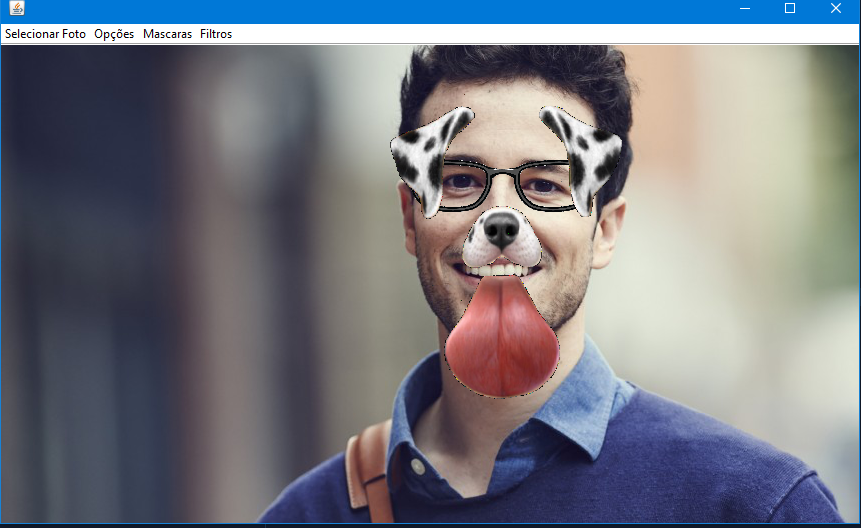
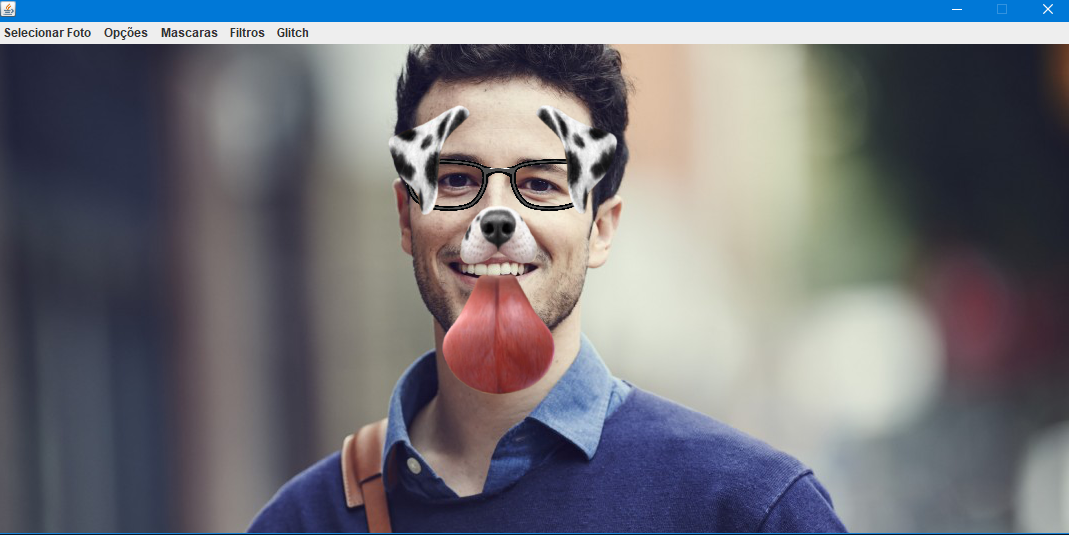
update screenshot's

diff --git a/src/br/com/ySelf/util/MatUtil.java b/src/br/com/ySelf/util/MatUtil.java
@@ -19,7 +19,6 @@ import org.opencv.core.Point;
 import org.opencv.imgcodecs.Imgcodecs;
 import org.opencv.imgproc.Imgproc;
 import org.opencv.core.Rect;
-import org.opencv.core.Scalar;
 import org.opencv.core.Size;
 
 public abstract class MatUtil extends JFrame {
@@ -111,13 +110,15 @@ public abstract class MatUtil extends JFrame {
             double sloopOfFace = Detection.sloopOfFace(img.submat(fr));
             rotate(sub, sloopOfFace);
             
+           
             fr.x += sloopOfFace;
+            
             
             Mat face = img.submat(fr);
             Imgproc.resize(sub, sub, face.size());
             
             overlay(face, sub);
-         
+
         }
     }
     
@@ -141,9 +142,9 @@ public abstract class MatUtil extends JFrame {
 
 
         for (Rect rect : eyes) { 
-            
+            /*
             double sloopOfFace = Detection.sloopOfFace(img.submat(rect));
-            rotate(sub, sloopOfFace);
+            rotate(sub, sloopOfFace);*/
             
             Mat face = img.submat(rect);
             Imgproc.resize(sub, sub, face.size());
@@ -174,7 +175,7 @@ public abstract class MatUtil extends JFrame {
                 double[] pixel2  = widget.get(x, y);
                 
                 double alpha = pixel2[3] / 255f;
-                
+                    
                 for(int i = 0; i < 3; i ++)  
                     pixel1[i] = pixel2[i] * alpha + pixel1[i] * (1 -alpha);
                 
